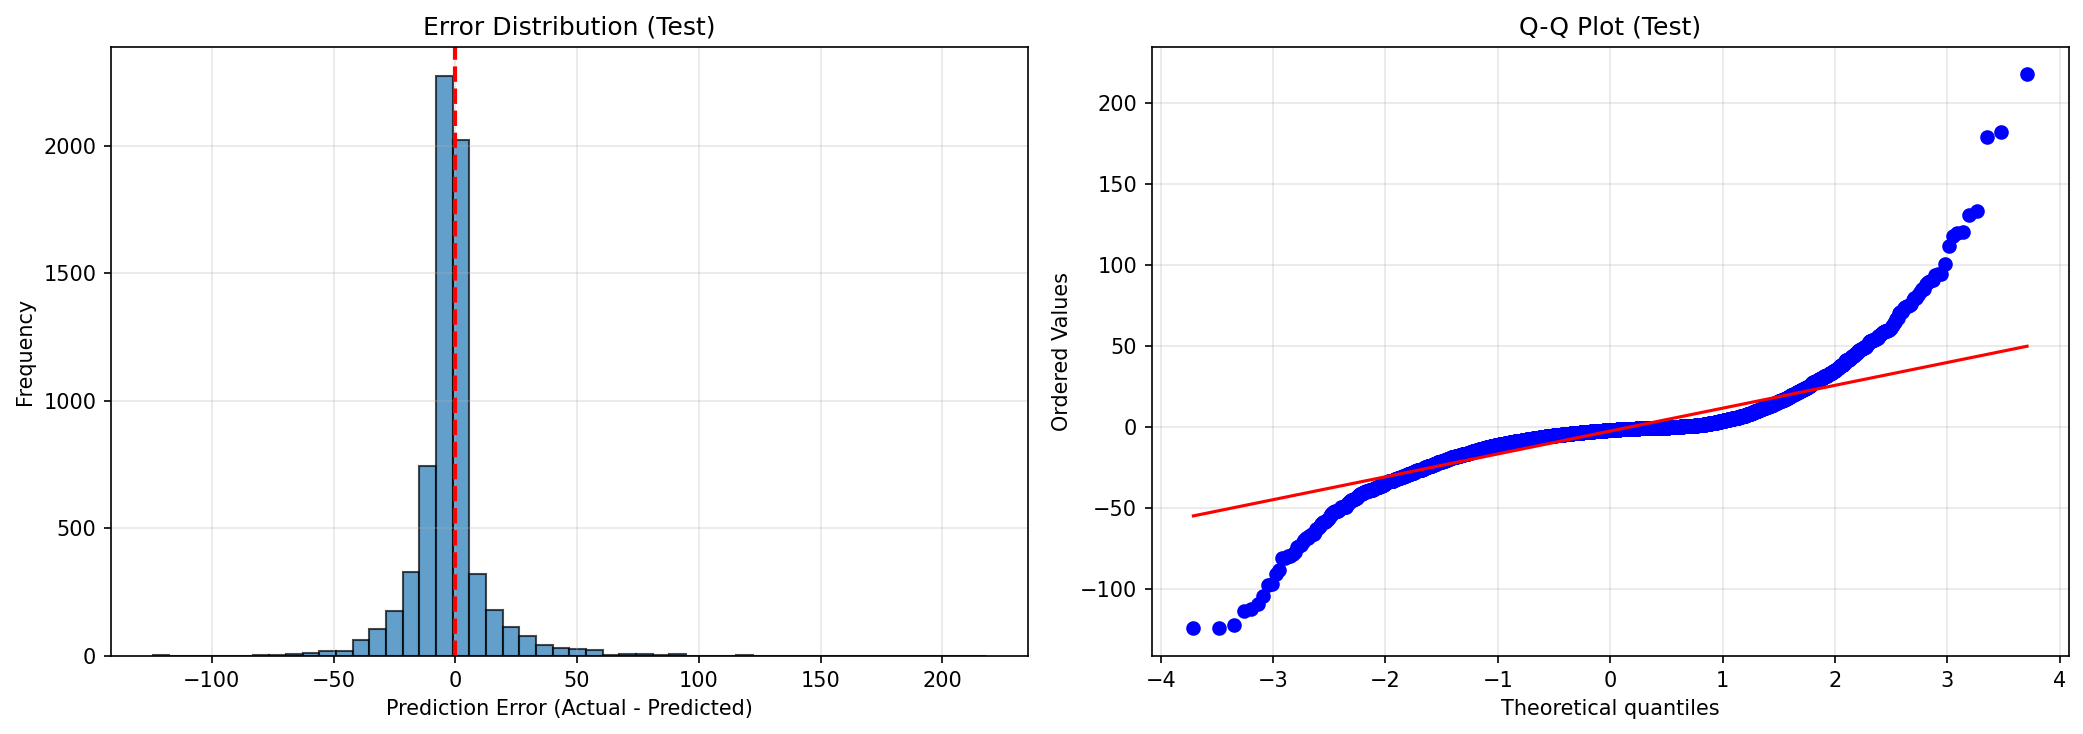
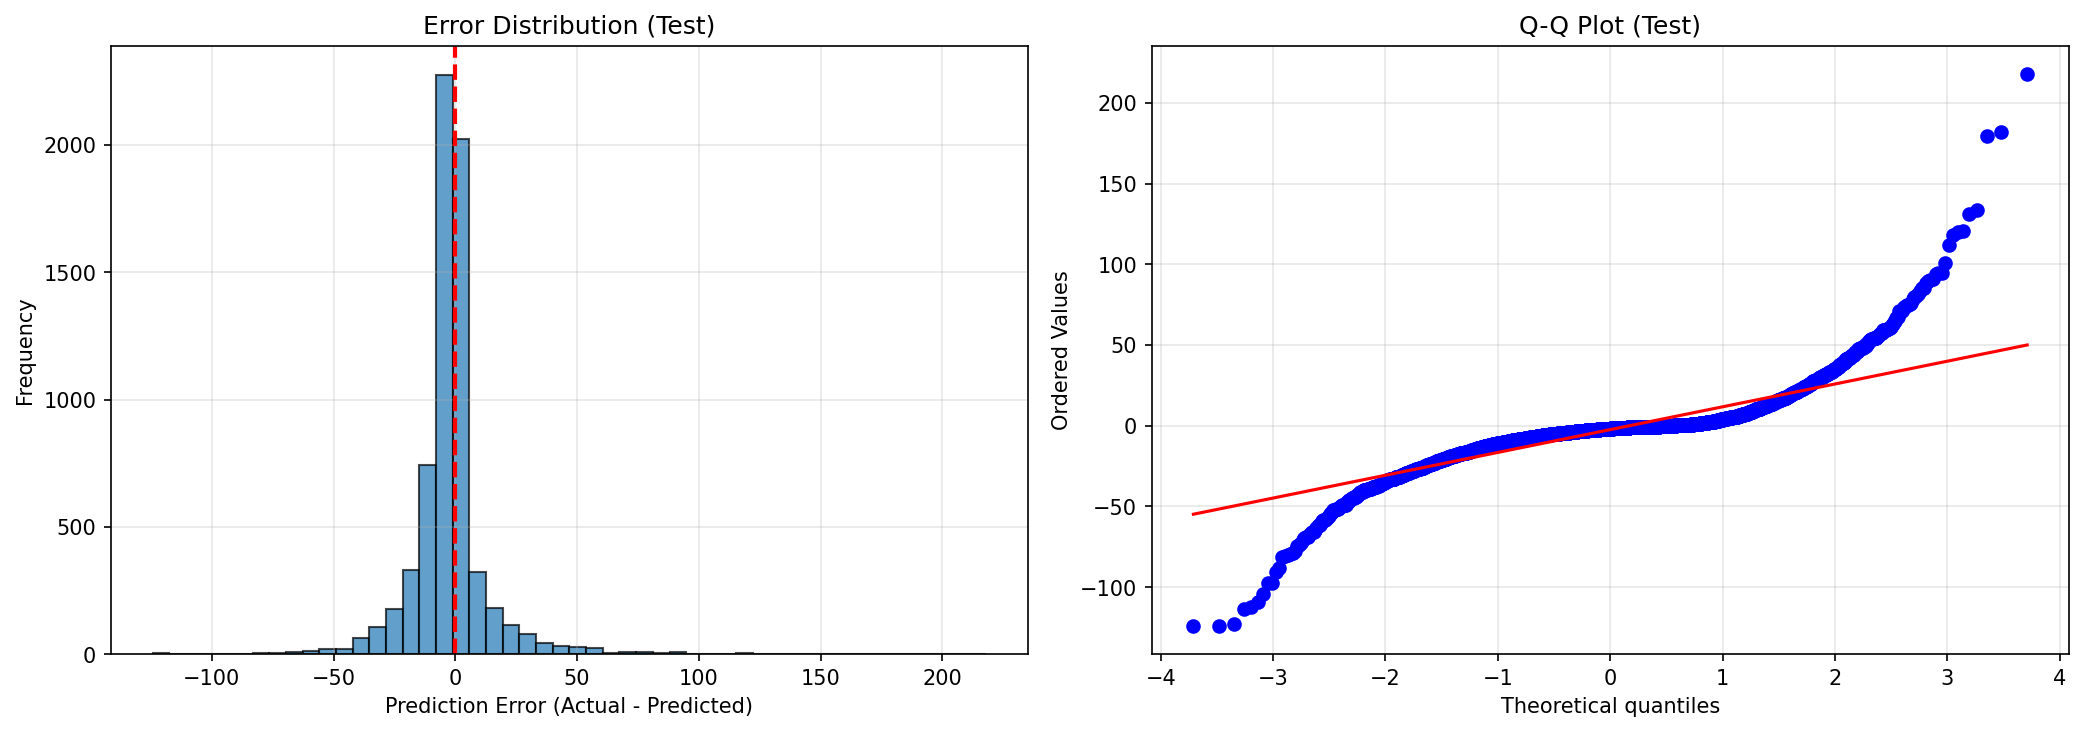
Small Tweaks

diff --git a/src/models/random_forest_model.py b/src/models/random_forest_model.py
@@ -88,9 +88,7 @@ def hyperparameter_search_manual(X_train, y_train, X_val, y_val):
     Manual hyperparameter search with focused configurations
     Faster than RandomizedSearchCV for structured search
     """
-    print(f"\n{'='*70}")
     print("HYPERPARAMETER SEARCH - Random Forest")
-    print(f"{'='*70}\n")
     
     results = []
     models = []
@@ -138,12 +136,9 @@ def hyperparameter_search_manual(X_train, y_train, X_val, y_val):
     best_idx = results_df['val_rmse'].idxmin()
     best_model = models[best_idx]
     
-    print(f"\n{'='*70}")
     print("HYPERPARAMETER SEARCH RESULTS")
-    print(f"{'='*70}\n")
     print(results_df.to_string(index=False))
     
-    print(f"\n{'='*70}")
     print(f"BEST MODEL:")
     print(f"  n_estimators: {results_df.iloc[best_idx]['n_estimators']}")
     print(f"  max_depth: {results_df.iloc[best_idx]['max_depth']}")
@@ -152,7 +147,6 @@ def hyperparameter_search_manual(X_train, y_train, X_val, y_val):
     print(f"  Validation RMSE: {results_df.iloc[best_idx]['val_rmse']:.2f}")
     print(f"  Validation R²: {results_df.iloc[best_idx]['val_r2']:.4f}")
     print(f"  Training time: {results_df.iloc[best_idx]['train_time_seconds']:.1f}s")
-    print(f"{'='*70}\n")
     
     return best_model, results_df
 
@@ -182,7 +176,6 @@ def analyze_feature_importance(model, feature_names, output_dir, top_n=20):
     
     # Print top features
     print(f"\nTop {top_n} Most Important Features:")
-    print("-" * 70)
     for i in range(min(top_n, len(importance_df))):
         row = importance_df.iloc[i]
         print(f"  {i+1:2d}. {row['feature']:30s} {row['importance']:.4f} ({row['importance_pct']:.2f}%)")
@@ -279,9 +272,7 @@ def save_results(best_model, results_df, feature_importance_df, X_train, output_
     print(f"✓ Metadata saved to: {output_dir / 'metadata.json'}")
 
 if __name__ == "__main__":
-    print(f"\n{'='*70}")
     print("RANDOM FOREST REGRESSOR - TRAINING")
-    print(f"{'='*70}\n")
     
     # Load data
     print("Loading data splits...")
@@ -305,25 +296,18 @@ if __name__ == "__main__":
     best_model, results_df = hyperparameter_search_manual(X_train, y_train, X_val, y_val)
     
     # Feature importance analysis
-    print(f"\n{'='*70}")
     print("FEATURE IMPORTANCE ANALYSIS")
-    print(f"{'='*70}")
     
     output_dir = Path('models/random_forest')
     importance_df = analyze_feature_importance(best_model, X_train.columns, output_dir, top_n=20)
     
     # Save everything
-    print(f"\n{'='*70}")
     print("SAVING RESULTS")
-    print(f"{'='*70}\n")
     
     save_results(best_model, results_df, importance_df, X_train, output_dir)
     
-    print(f"\n{'='*70}")
-    print("TRAINING COMPLETE ✅")
-    print(f"{'='*70}")
+    print("TRAINING COMPLETE")
     print("\nNext steps:")
     print("  1. Run evaluation: python src/evaluation/evaluate_model.py models/random_forest/model.pkl \"Random Forest\"")
     print("  2. Run granular evaluation: python src/evaluation/granular_evaluation.py models/random_forest/model.pkl")
     print("  3. Compare with baseline results")
-    print(f"\n{'='*70}\n")

diff --git a/src/models/dnn_model_tensorflow.py b/src/models/dnn_model_tensorflow.py
@@ -168,9 +168,7 @@ def hyperparameter_search(X_train, y_train, X_val, y_val):
     """
     Search for best DNN architecture and hyperparameters
     """
-    print(f"\n{'='*70}")
     print("HYPERPARAMETER SEARCH - Deep Neural Network")
-    print(f"{'='*70}\n")
     
     results = []
     models = []
@@ -228,12 +226,9 @@ def hyperparameter_search(X_train, y_train, X_val, y_val):
     best_model = models[best_idx]
     best_history = histories[best_idx]
     
-    print(f"\n{'='*70}")
     print("HYPERPARAMETER SEARCH RESULTS")
-    print(f"{'='*70}\n")
     print(results_df.to_string(index=False))
     
-    print(f"\n{'='*70}")
     print(f"BEST MODEL:")
     print(f"  Architecture: {results_df.iloc[best_idx]['hidden_layers']}")
     print(f"  Dropout rate: {results_df.iloc[best_idx]['dropout_rate']}")
@@ -243,7 +238,6 @@ def hyperparameter_search(X_train, y_train, X_val, y_val):
     print(f"  Validation RMSE: {results_df.iloc[best_idx]['val_rmse']:.2f}")
     print(f"  Validation R²: {results_df.iloc[best_idx]['val_r2']:.4f}")
     print(f"  Training time: {results_df.iloc[best_idx]['train_time_seconds']:.1f}s")
-    print(f"{'='*70}\n")
     
     return best_model, best_history, results_df
 
@@ -340,9 +334,7 @@ def save_results(best_model, results_df, scaler, scaler_y, best_history, feature
     plot_training_history(best_history, output_dir)
 
 if __name__ == "__main__":
-    print(f"\n{'='*70}")
     print("DEEP NEURAL NETWORK (FEED-FORWARD) - TRAINING")
-    print(f"{'='*70}\n")
     
     # Check TensorFlow/GPU
     print("TensorFlow Configuration:")
@@ -373,7 +365,7 @@ if __name__ == "__main__":
     # Scale features (CRITICAL for neural networks!)
     print("\nScaling features (StandardScaler)...")
     X_train_scaled, X_val_scaled, scaler = scale_features(X_train, X_val)
-    print(f"  ✓ Features scaled (mean=0, std=1)")
+    print(f" Features scaled (mean=0, std=1)")
     
     y_scaler = StandardScaler()
     y_train_scaled = y_scaler.fit_transform(y_train.values.reshape(-1, 1)).flatten()
@@ -385,18 +377,13 @@ if __name__ == "__main__":
     )
     
     # Save everything
-    print(f"\n{'='*70}")
     print("SAVING RESULTS")
-    print(f"{'='*70}\n")
     
     output_dir = Path('models/dnn')
     save_results(best_model, results_df, scaler, y_scaler, best_history, X_train.columns, output_dir)
     
-    print(f"\n{'='*70}")
-    print("TRAINING COMPLETE ✅")
-    print(f"{'='*70}")
+    print("TRAINING COMPLETE")
     print("\nNext steps:")
     print("  1. Run evaluation: python src/evaluation/evaluate_model.py models/dnn/model.keras \"Deep Neural Network\"")
     print("  2. Run granular evaluation: python src/evaluation/granular_evaluation.py models/dnn/model.keras")
     print("  3. Compare with baseline and Random Forest results")
-    print(f"\n{'='*70}\n")
